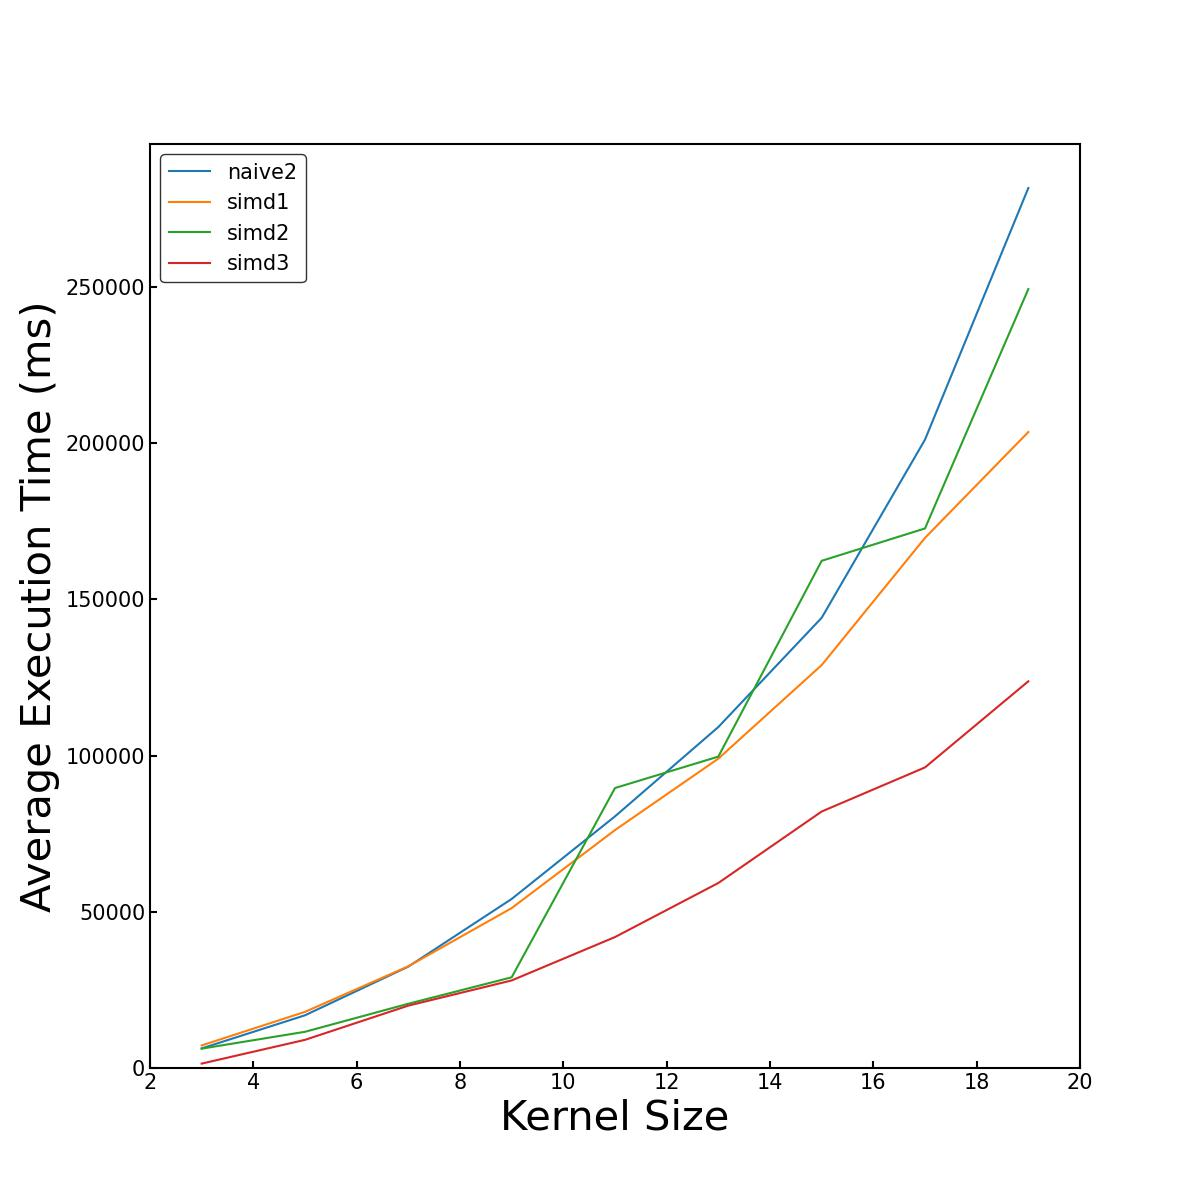
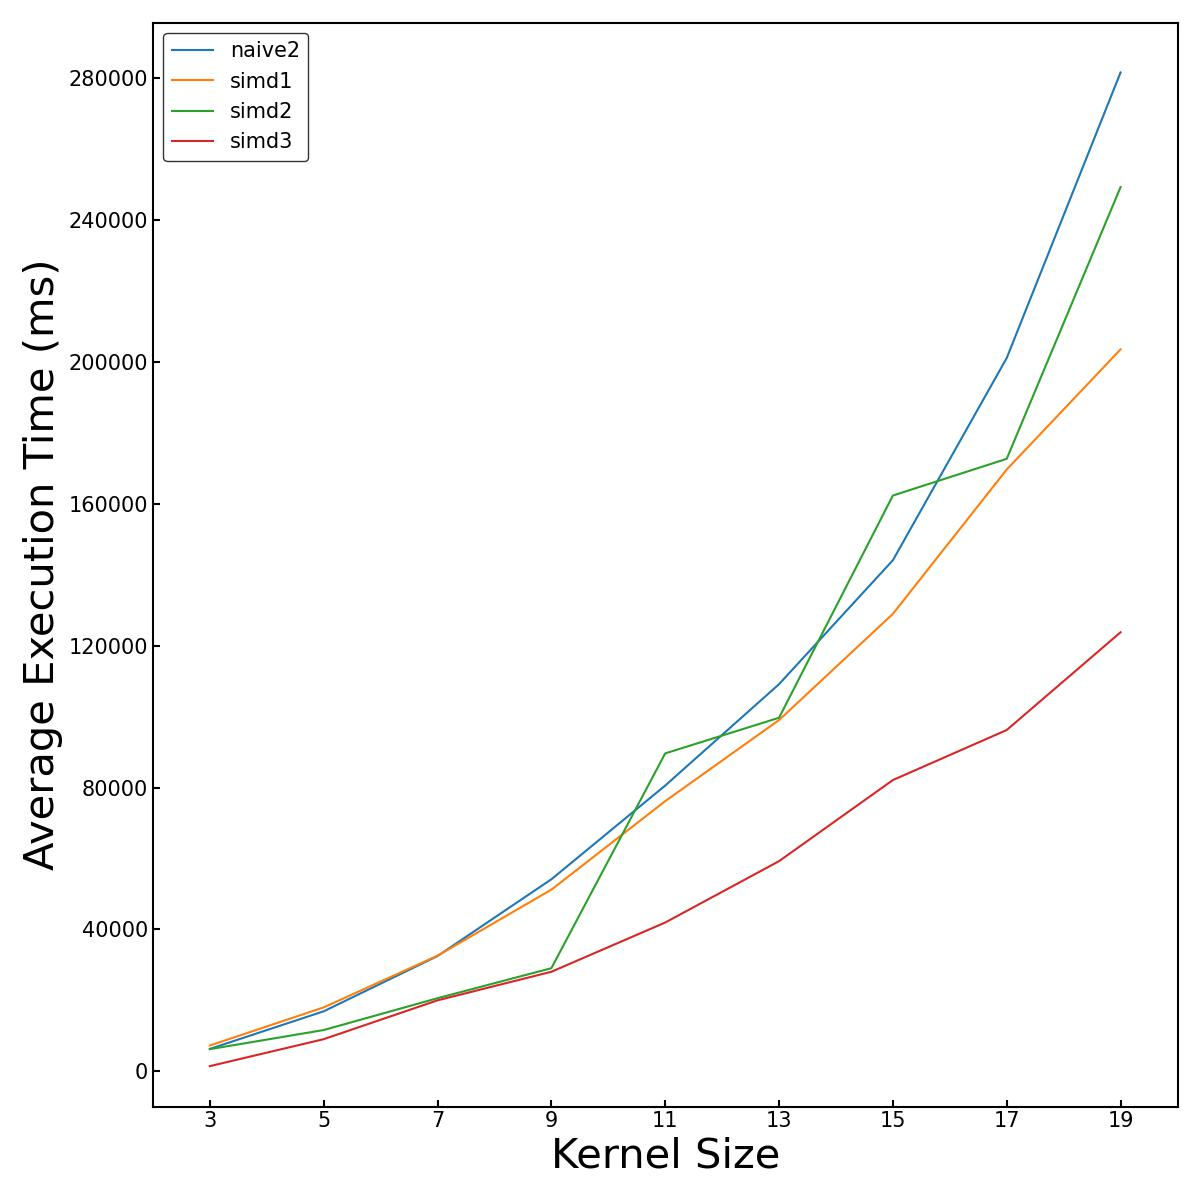
refined plot

diff --git a/results/plot.py b/results/plot.py
@@ -54,7 +54,10 @@ plt_setup()
 fig = plt.figure(figsize=(12, 12))
 ax = fig.add_subplot(111)
 ax.set_xlim(2, 20)
-ax.set_ylim(0, y_upper)
+ax.set_xticks(range(3, 20, 2))
+ax.set_ylim(-10000, y_upper)
+ax.set_yticks(range(0, y_upper, 40000))
+
 ax.set_xlabel("Kernel Size", size=30)
 ax.set_ylabel("Average Execution Time (ms)", size=30)
 
@@ -64,4 +67,5 @@ ax.plot(X, simd2, label=SIMD2)
 ax.plot(X, simd3, label=SIMD3)
 ax.legend()
 
+plt.tight_layout()
 fig.savefig("bench.jpeg")
